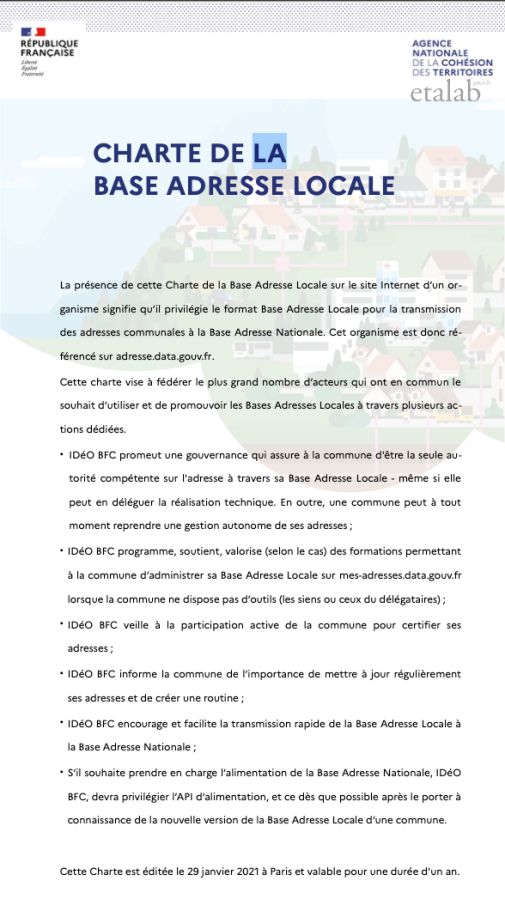
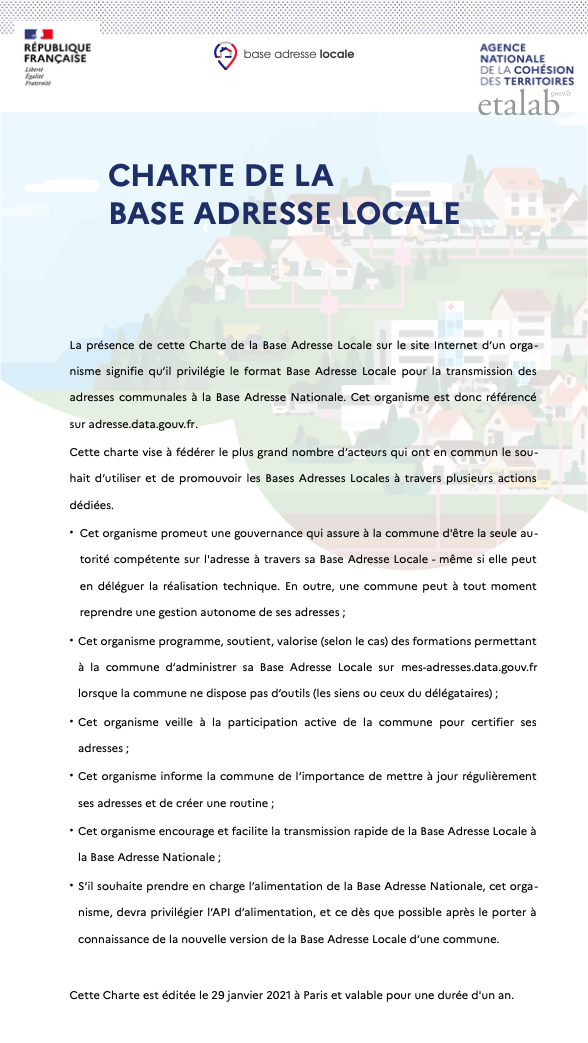
partners

diff --git a/pages/bases-locales/charte.js b/pages/bases-locales/charte.js
@@ -1,17 +1,22 @@
 import React from 'react'
+import Image from 'next/image'
+
 import Page from '@/layouts/main'
 import Head from '@/components/head'
 import Section from '@/components/section'
-import DocDownload from '@/components/doc-download'
-import {FileText} from 'react-feather'
+import Partner from '@/components/partner'
+import {Download, Book} from 'react-feather'
 
-const title = 'Chartre de la Base Adresse Locale'
+import theme from '@/styles/theme'
 
-function charte() {
+const title = 'Charte et organismes partenaires'
+
+function Charte() {
   return (
     <Page>
-      <Head title={title} icon={<FileText size={56} />} />
-      <Section background='white'>
+      <Head title={title} icon={<Download size={56} />} />
+
+      <Section background='white' title='Charte de la Base Adresse Locale'>
         <div className='charte-container'>
           <p>La présence de cette <b>Charte de la Base Adresse Locale</b> sur le site Internet d’un organisme signifie qu’il privilégie le format <b>Base Adresse Locale</b> pour la transmission des adresses communales à la <b>Base Adresse Nationale</b>. Cet organisme est donc référencé sur <b>adresse.data.gouv.fr</b>.</p>
           <p>Cette charte vise à fédérer le plus grand nombre d’acteurs qui ont en commun le souhait d’utiliser et de promouvoir <b>les Bases Adresses Locales</b> à travers plusieurs actions dédiées.</p>
@@ -30,26 +35,68 @@ function charte() {
           <p>Cette Charte est éditée le 29 janvier 2021 à Paris et <b>valable pour une durée d’un an</b>.</p>
         </div>
         <style jsx>{`
-              .charte-list li {
-                margin-top:2em
+              .charte-container {
+                margin-top: 3em;
               }
-              .charte-list li:last-child {
-                margin-bottom:2em
+
+              .charte-list li {
+                margin-top: 0.5em;
               }
             `}</style>
       </Section>
 
-      <Section background='grey' >
-        <DocDownload
-          title='Télécharger la chartre de la Base Adresse Locale'
-          src='/images/previews/charte.png'
-          alt='miniature du document charte'
-          link='https://livingdata-chat.slack.com/files/UP06LNQGY/F01LW2NB933/20210129_charte_bal_ideo-bfc.pdf'
-          isVersionLight='true'
-        />
+      <Section background='grey' title='Télécharger la charte' >
+        <div className='charte-download-section'>
+          <div className='charte-preview'>
+            <Image
+              src='/images/previews/charte.png'
+              alt='miniature de la charte'
+              width={150}
+              height={200}
+            />
+          </div>
+          <a href='https://adresse.data.gouv.fr/data/docs/charte-bal-v1.0.pdf' target='_blank' rel='noreferrer'>
+            <Book style={{verticalAlign: 'bottom', marginRight: '5px'}} />
+            Télécharger
+          </a>
+        </div>
+
+        <style jsx>{`
+              .charte-download-section {
+                display: flex;
+                flex-direction: column;
+                align-items: center;
+                justify-content: center;
+                margin: 1.5em;
+              }
+
+              .charte-preview {
+                margin: 1.5em;
+                border: 1px solid ${theme.border};
+              }
+            `}</style>
+      </Section>
+
+      <Section background='white' title='Organismes partenaires'>
+        <div className='partners'>
+          <Partner link='https://ideo.ternum-bfc.fr/' src='/images/logos/partners/IDeO.svg' alt='partenaire ideo bfc' name='IDéO BFC' height={200} width={140} />
+          <Partner link='https://www.crige.normandie.fr/crige' src='/images/logos/partners/Crige.jpg' alt='partenaire crige' name='CRIGE Normandie' height={200} width={356} />
+          <Partner link='https://www.communaute-paysbasque.fr/' src='/images/logos/partners/commupb.png' alt='partenaire communauté pays basques' name='Communauté d’Agglomération du Pays Basque' height={200} width={200} />
+          <Partner link='https://geo.compiegnois.fr/portail/' src='/images/logos/partners/Geocompiegnois.png' alt='partenaire geocompiegnois' name='GéoCompiégnois' height={50} width={409} />
+        </div>
+        <style jsx>{`
+        .partners {
+          display: grid;
+          grid-template-columns: repeat(auto-fit, minmax(400px, 1fr));
+          justify-content: space-around;
+          margin-top: 12em;
+          align-items: center;
+          grid-gap: 1em;
+        }
+        `}</style>
       </Section>
     </Page>
   )
 }
 
-export default charte
+export default Charte

diff --git a/components/doc-download.js b/components/doc-download.js
@@ -5,7 +5,7 @@ import {Book} from 'react-feather'
 
 import theme from '@/styles/theme'
 
-function DocDownload({title, link, src, alt, isReverse, isVersionLight, children}) {
+function DocDownload({title, link, src, alt, isReverse, children}) {
   return (
     <div className='doc-container'>
       <div className='text-container'>
@@ -25,7 +25,7 @@ function DocDownload({title, link, src, alt, isReverse, isVersionLight, children
         .doc-container {
           display: flex;
           flex-wrap: wrap;
-          flex-direction: ${isReverse ? 'row-reverse' : (isVersionLight ? 'column' : 'row')};
+          flex-direction: ${isReverse ? 'row-reverse' : 'row'};
           margin: 1em 0;
         }
 
@@ -53,7 +53,6 @@ function DocDownload({title, link, src, alt, isReverse, isVersionLight, children
 
 DocDownload.propTypes = {
   isReverse: PropTypes.bool,
-  isVersionLight: PropTypes.bool,
   children: PropTypes.node,
   link: PropTypes.string,
   title: PropTypes.string,
@@ -63,7 +62,6 @@ DocDownload.propTypes = {
 
 DocDownload.defaultProps = {
   isReverse: false,
-  isVersionLight: false,
   children: null,
   link: null,
   title: null,

diff --git a/components/partner.js b/components/partner.js
@@ -1,0 +1,36 @@
+import React from 'react'
+import PropTypes from 'prop-types'
+import Image from 'next/image'
+
+import colors from '@/styles/colors'
+
+function Partner({link, name, ...props}) {
+  return (
+    <div className='partner' href={link}>
+      <div>
+        <Image {...props} layout='fixed' />
+      </div>
+      <div style={{marginTop: '1.5em'}}> {link ? <a href={link} target='_blank' rel='noreferrer' className='partner-link'><b>{name}</b></a> : <b>{name}</b>} </div>
+      <style jsx>{`
+        .partner {
+          display: grid;
+          grid-template-rows: 1fr 1fr;
+          text-align: center;
+        }
+        .partner-link{
+          color: ${colors.black};
+          text-decoration: none;
+          font-size: 1.1em;
+        }
+        `}</style>
+    </div>
+  )
+}
+
+Partner.propTypes = {
+  link: PropTypes.string.isRequired,
+  name: PropTypes.string.isRequired
+}
+
+export default Partner
+
